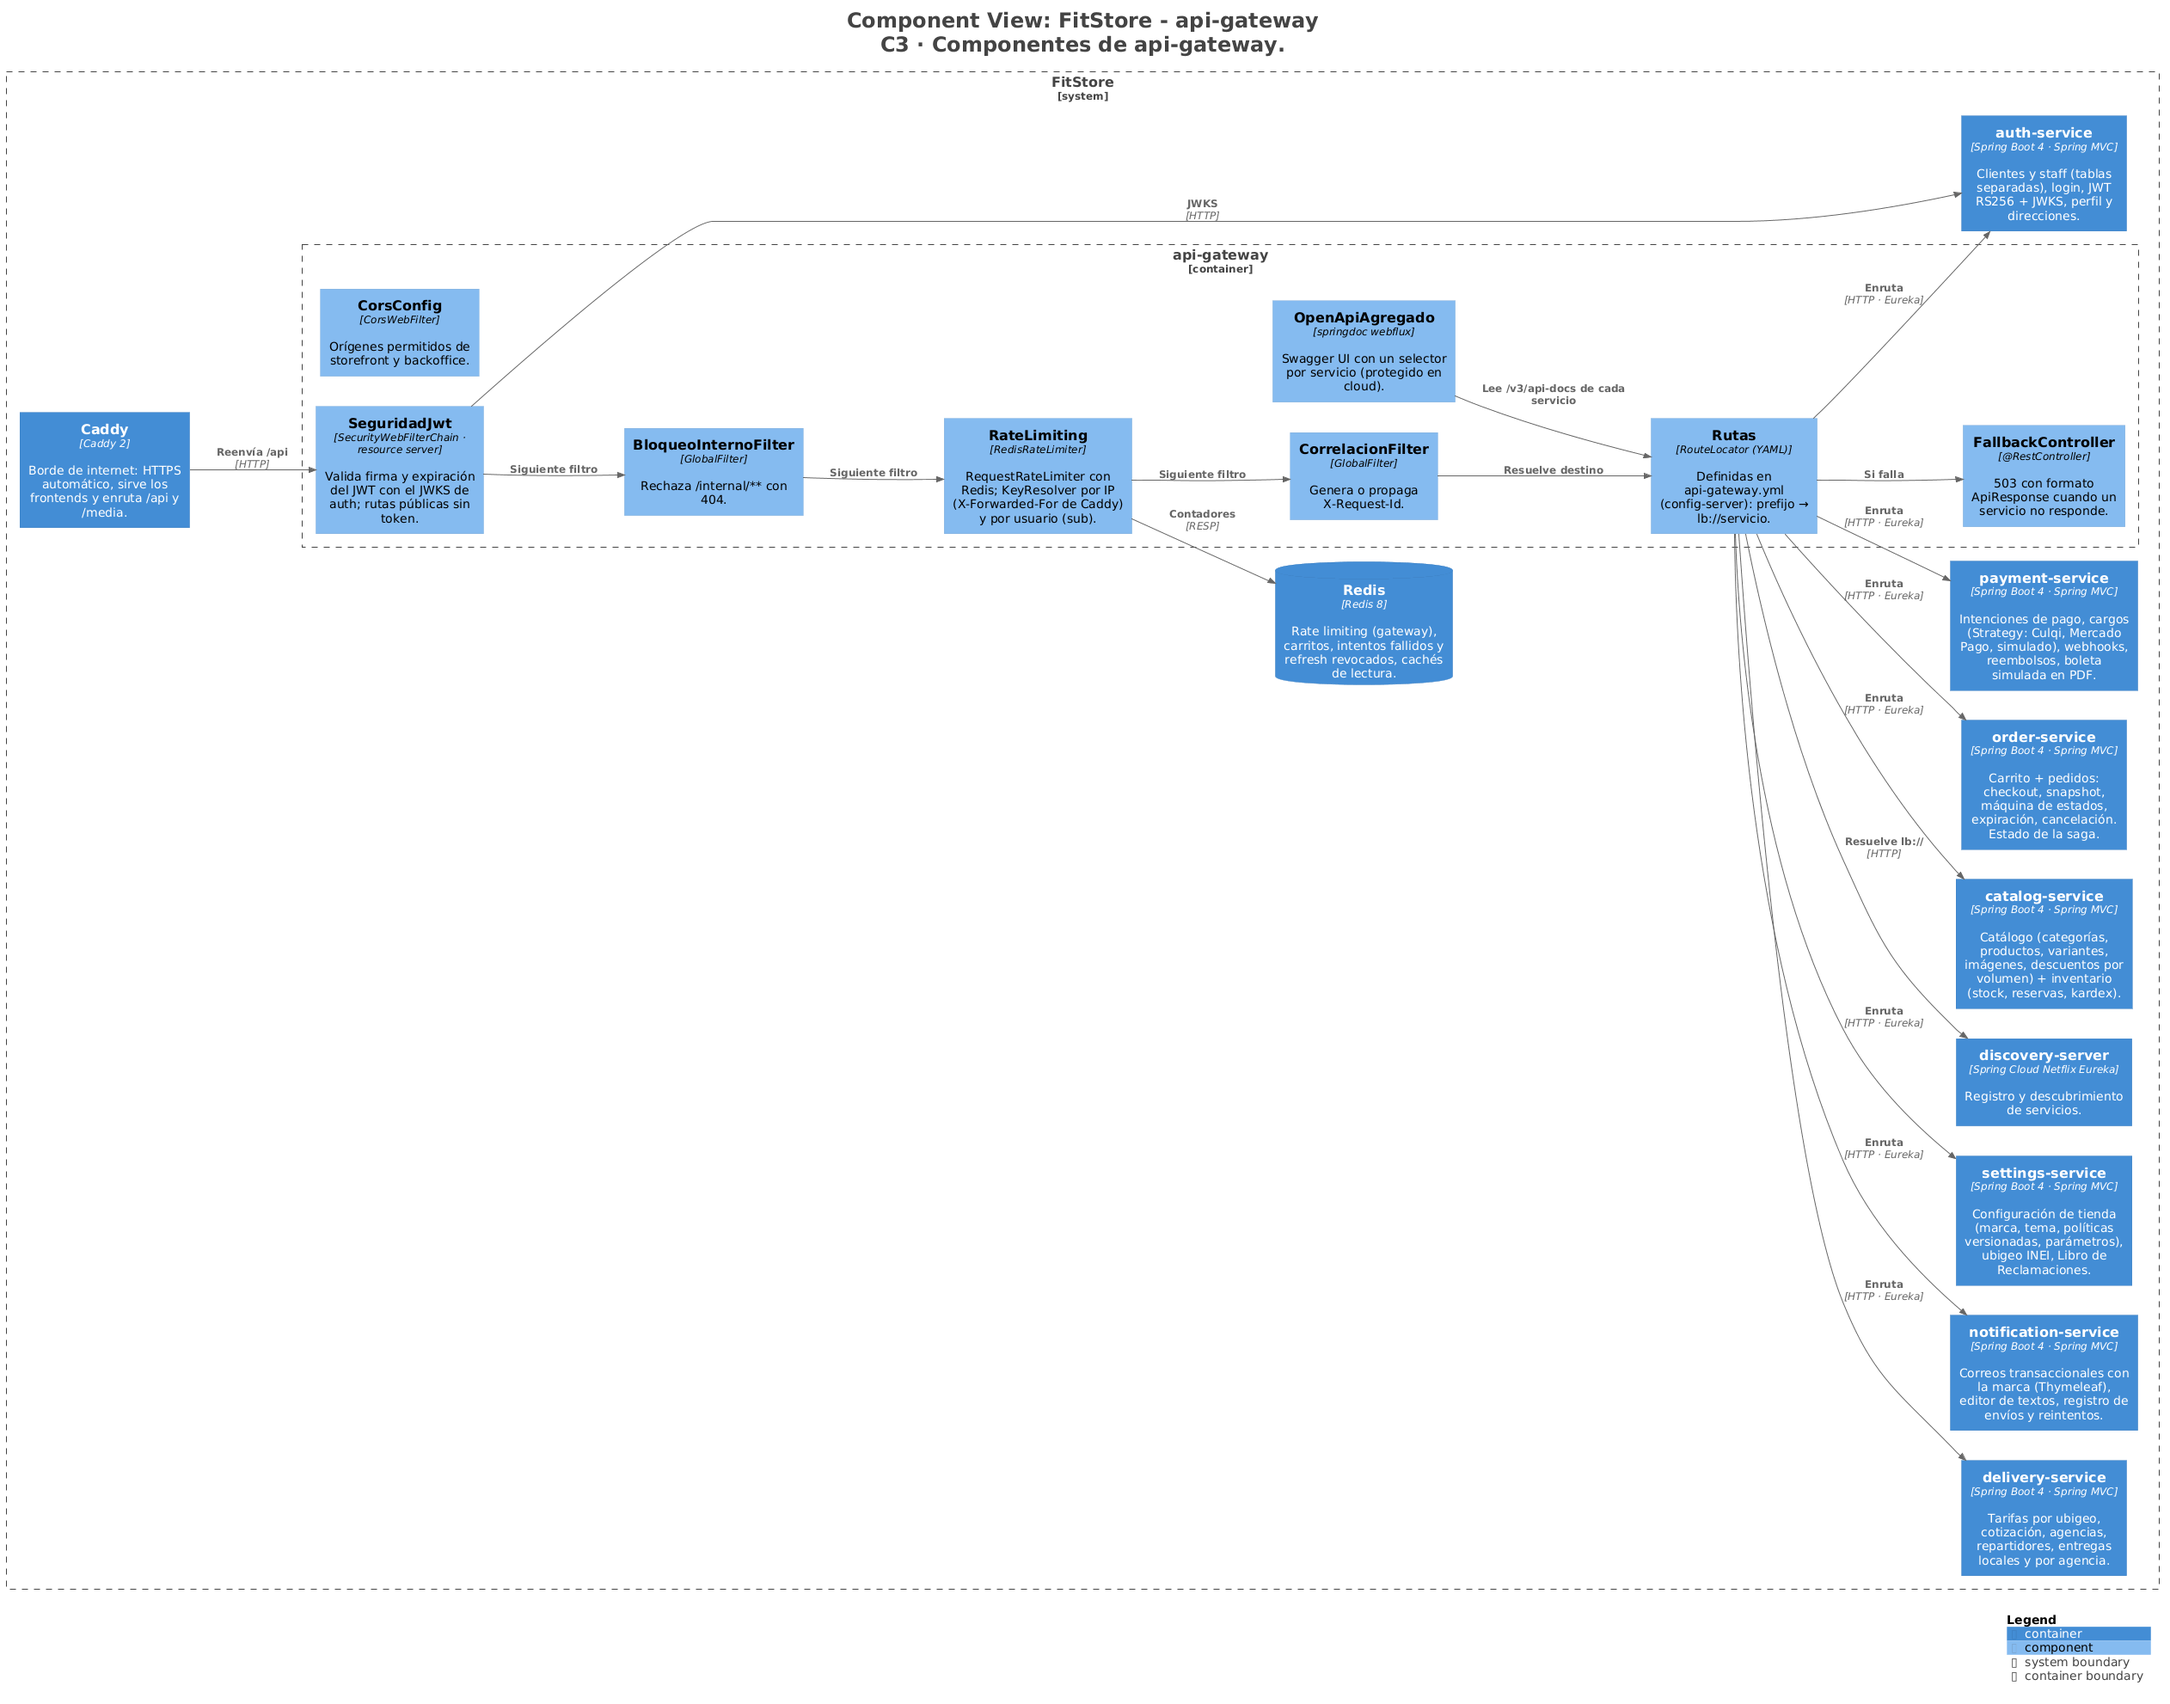
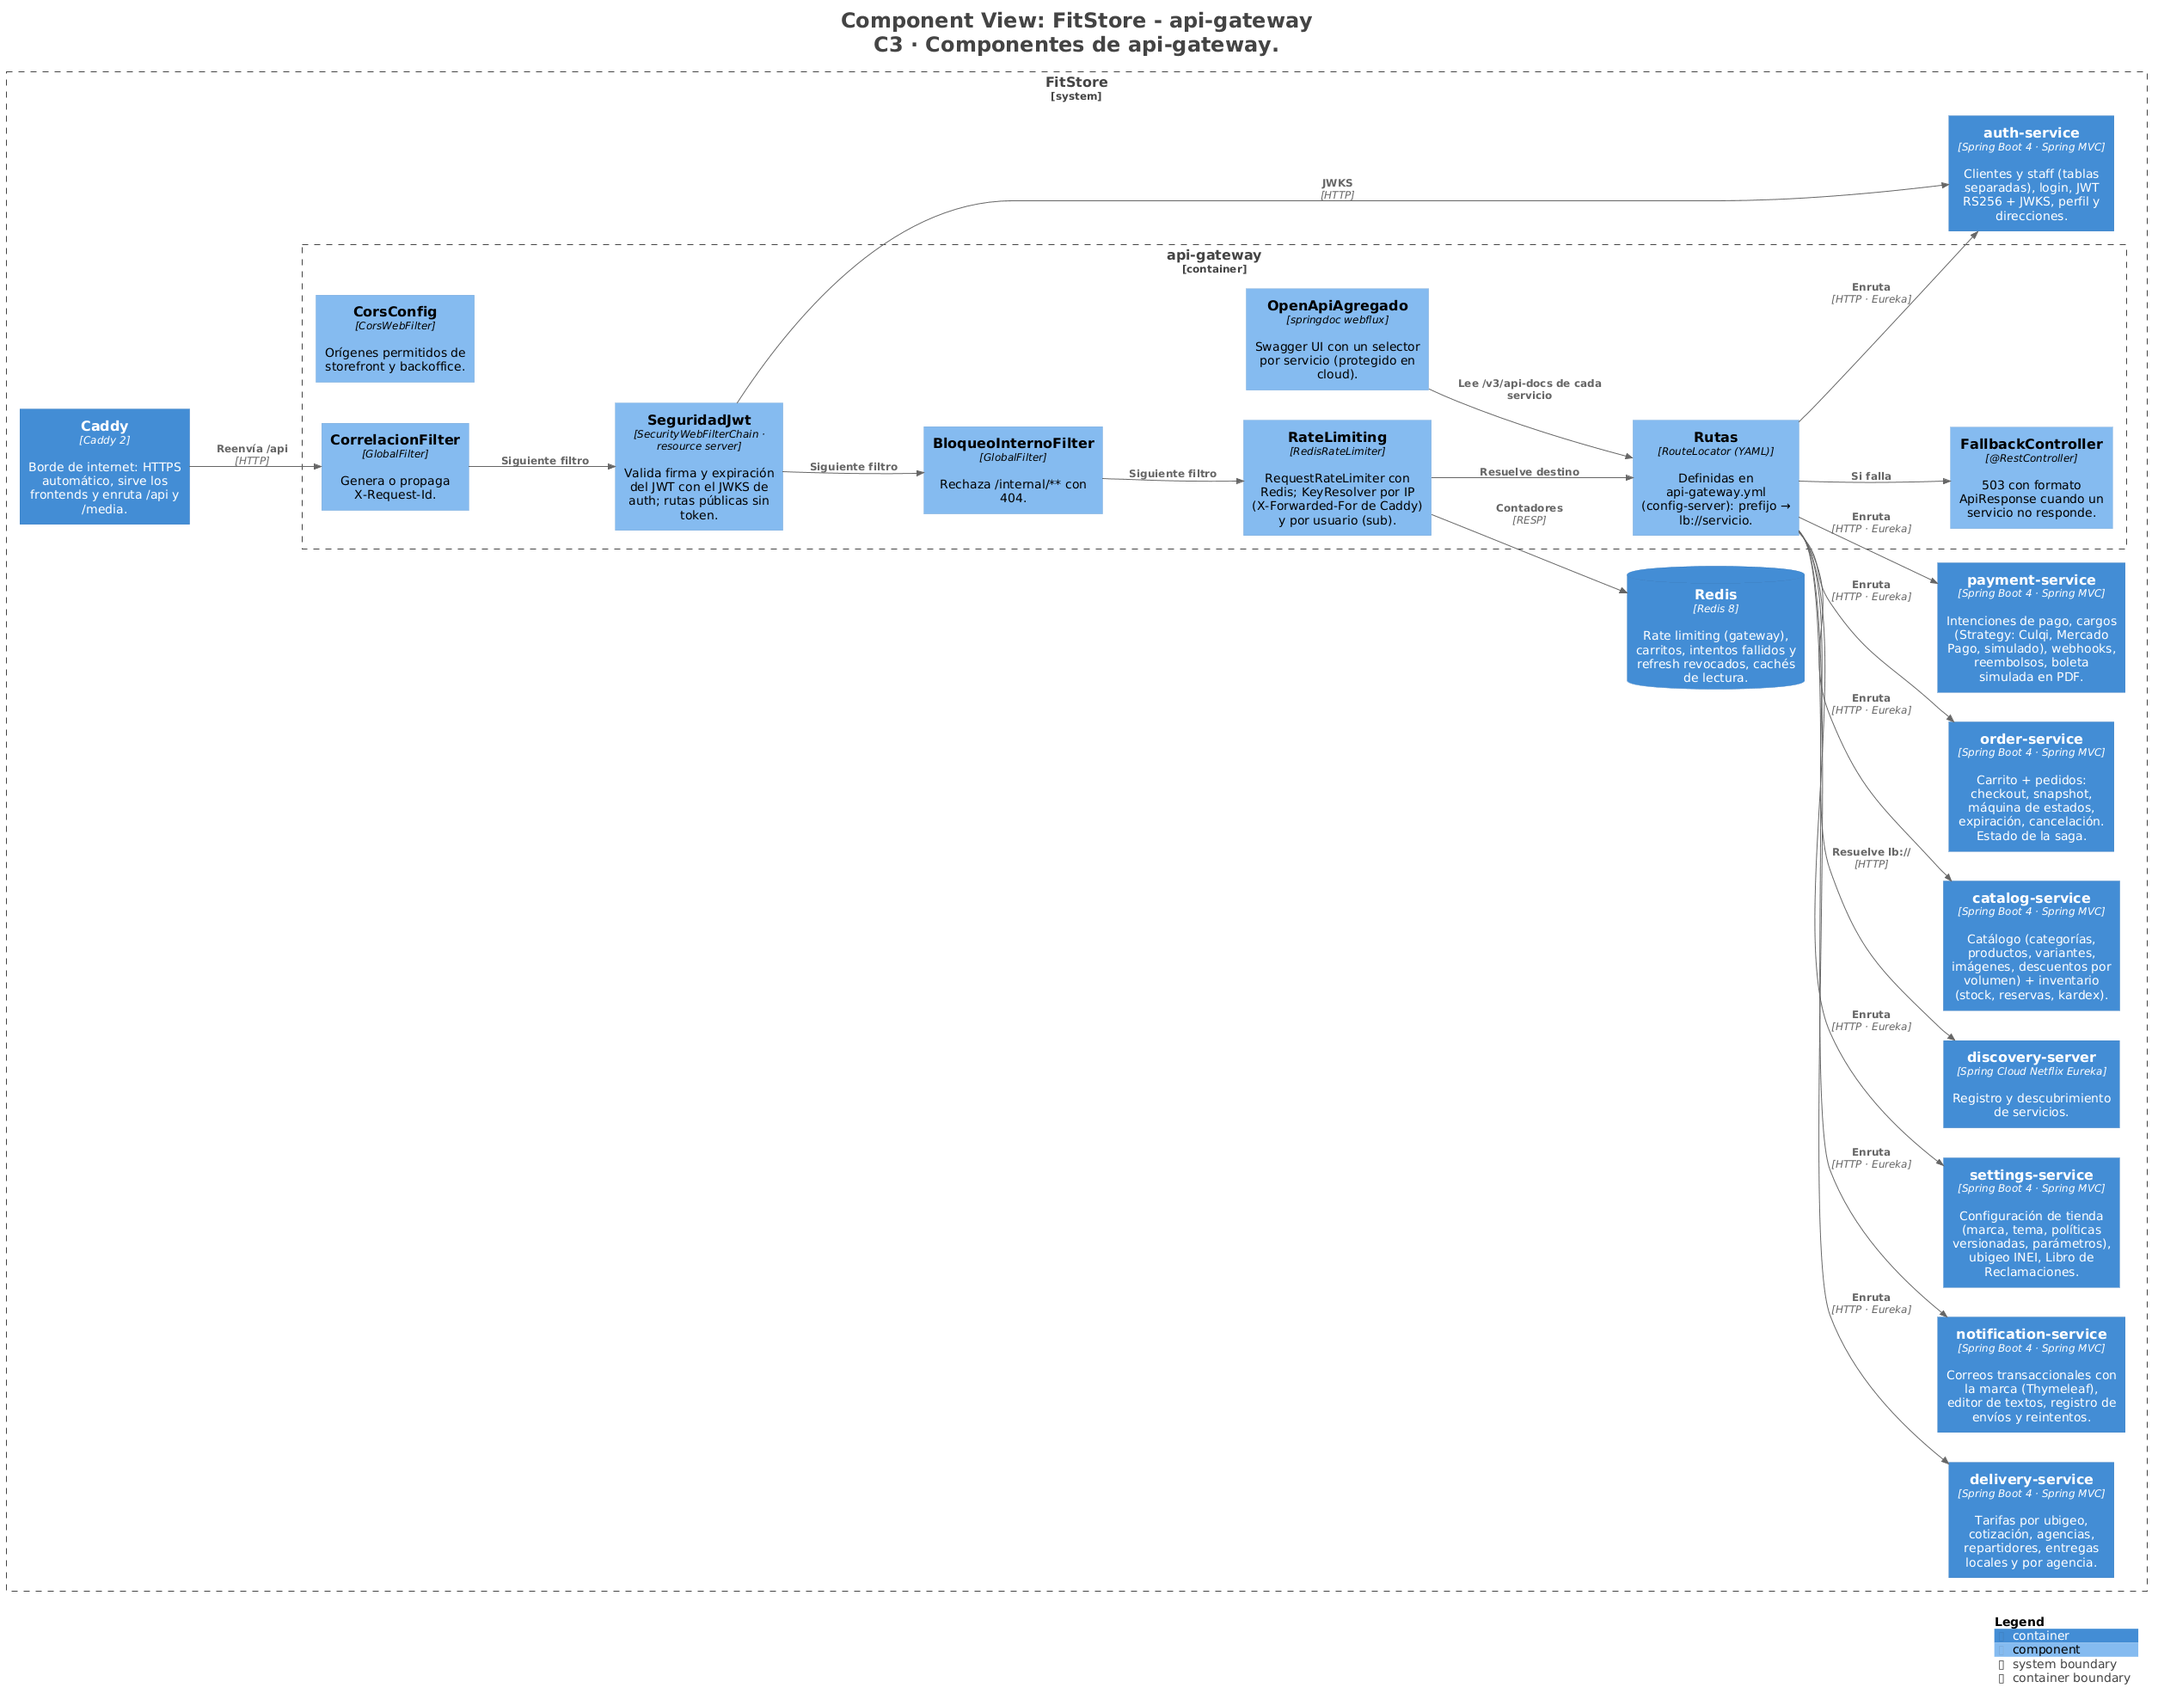
docs: validación de briefs contra la spec y orden de filtros del gateway
- estrategia v6: B2, el brief se valida criterio por criterio contra la
  sección 7 de la spec antes de lanzar un agente
- brief 0a: tabla de validación; 05 y 17 pasan a 0a.3, la traza de 13 a 0a.1
- micro de infraestructura v8 y C4 v6: CorrelacionFilter primero (K9,
  CA-0a-13), C3-gateway regenerado

diff --git a/docs/implementacion/briefs/SPEC-0a.md b/docs/implementacion/briefs/SPEC-0a.md
@@ -7,10 +7,33 @@ La SPEC-0a se construye en tres pasos (I1). Cada paso es un agente, una rama y u
 
 | Paso | Rama | Alcance (V4) | Criterios | Entra |
 |---|---|---|---|---|
-| **0a.1** Monorepo, común e infraestructura | `spec/0a-1-plataforma` | [`SPEC-0a.1.alcance`](SPEC-0a.1.alcance) | 01 (parcial), 04, 08–12, 13 (`X-Request-Id`), 14–17, 21 | En curso |
+| **0a.1** Monorepo, común e infraestructura | `spec/0a-1-plataforma` | [`SPEC-0a.1.alcance`](SPEC-0a.1.alcance) | 01 (parcial), 04, 08–13, 14–16, 21 · complementaria: 17 | En curso |
 | **CK1** Checkpoint de base | — | — | Revisión exhaustiva del lead ([estrategia 2.1](../estrategia-multiagente.md#21-checkpoints-de-base)) | 0a.1 en `dev` |
-| **0a.2** Esqueleto de un servicio (×7, 3 a la vez) | `spec/0a-2-<servicio>` | `SPEC-0a.2-<servicio>.alcance` | 05 y 06 de ese servicio, más su `ContratoOpenApiTest` (I8) | CK1 aprobado por el autor |
-| **0a.3** CI, humo y Postman | `spec/0a-3-ci` | `SPEC-0a.3.alcance` | 01, 02, 03, 07, 13 (traza en Jaeger), 17 (en el compose), 18, 19, 20, 22 | Los 7 esqueletos en `dev` |
+| **0a.2** Esqueleto de un servicio (×7, 3 a la vez) | `spec/0a-2-<servicio>` | `SPEC-0a.2-<servicio>.alcance` | 06 de ese servicio, más su `ContratoOpenApiTest` (I8) y lo que necesita 05 (V1 + entidades con `validate`) | CK1 aprobado por el autor |
+| **0a.3** CI, humo y Postman | `spec/0a-3-ci` | `SPEC-0a.3.alcance` | 01, 02, 03, 05, 07, 17, 18, 19, 20, 22 | Los 7 esqueletos en `dev` |
+
+### Validación del brief (estrategia B2)
+
+Copiada de la sección 7 de la SPEC-0a v6. Cada criterio tiene un solo dueño.
+
+| CA | Sección 7: tipo · dónde | Dueño | ¿Su archivo está en el alcance del dueño? |
+|---|---|---|---|
+| 01 | Build / CI · `./mvnw verify`, `ci.yml` | 0a.3 (0a.1 deja el build en verde) | ✅ `ci.yml` en 0a.3 |
+| 02, 03 | Humo · `infra/smoke.sh` | 0a.3 | ✅ |
+| 04 | Integración · `config-server` + un servicio con Testcontainers | 0a.1 | ✅ `backend/config-server/` |
+| 05 | Humo · `infra/smoke.sh` | 0a.3 (0a.2 construye V1 y entidades) | ✅ |
+| 06 | Datos · `src/test/.../repository/*Test.java` de cada servicio | 0a.2 (cada servicio) | ✅ `backend/<servicio>/` |
+| 07 | Humo · `infra/smoke.sh` | 0a.3 (0a.1 crea `init.sql`) | ✅ |
+| 08–13 | Integración · `api-gateway/src/test` | 0a.1 | ✅ `backend/api-gateway/` |
+| 14, 15, 16 | Integración · `fitstore-common/src/test` | 0a.1 | ✅ `backend/fitstore-common/` |
+| 17 | Humo · `infra/smoke.sh` | 0a.3 (0a.1: prueba complementaria) | ✅ |
+| 18 | CI · `.gitignore` + gitleaks en `ci.yml` | 0a.3 (0a.1 crea `.gitignore`) | ✅ |
+| 19 | Humo · `infra/smoke.sh` | 0a.3 | ✅ |
+| 20 | CI · `ci.yml` | 0a.3 | ✅ |
+| 21 | Build · `jacoco:check` en `./mvnw verify` | 0a.1 (POM padre) | ✅ `pom.xml` |
+| 22 | CI · `ci.yml`, `scripts/contrato.sh`; `ContratoOpenApiTest` en cada esqueleto | 0a.3 (0a.2: `ContratoOpenApiTest`) | ✅ |
+
+Errores encontrados y corregidos (2026-10-19): CA-0a-07 y 18 estaban en 0a.1 (son de 0a.3); CA-0a-05 estaba en 0a.2 y CA-0a-17 en 0a.1 (los dos son *smoke*, de 0a.3); la traza de CA-0a-13 estaba en 0a.3 (la sección 7 la pone en las pruebas del gateway, 0a.1).
 
 ---
 
@@ -43,8 +66,8 @@ En tu **primer mensaje**, antes de escribir código: confirma qué leíste y res
 | CA-0a-01 (parcial) | `./mvnw verify` compila los 11 módulos y pasa todo |
 | CA-0a-04 | `config-server/src/test`: un cliente con perfil `dev` toma su configuración; sin config-server, reintenta y no arranca con valores por defecto |
 | CA-0a-08 a CA-0a-12 | `api-gateway/src/test` con `WebTestClient` + WireMock (+ Redis en Testcontainers para 11) |
-| CA-0a-13 (`X-Request-Id`) | `api-gateway/src/test`: la respuesta trae `X-Request-Id` y se propaga al servicio (la traza en Jaeger la verifica 0a.3) |
-| CA-0a-17 | `api-gateway/src/test`: el selector de Swagger tiene los 7 servicios configurados (0a.3 lo confirma en el compose) |
+| CA-0a-13 | `api-gateway/src/test`: la respuesta trae `X-Request-Id`, se propaga al servicio y el gateway exporta la traza (span del gateway con el servicio destino) a un receptor OTLP de prueba; la sección 7 de la spec pone todo el 13 en las pruebas del gateway |
+| CA-0a-17 (complementaria) | `api-gateway/src/test`: el selector de Swagger tiene los 7 servicios configurados. El dueño del criterio es 0a.3 (*smoke*, sección 7) |
 | CA-0a-14, CA-0a-15 | `fitstore-common/src/test` con PostgreSQL y RabbitMQ en Testcontainers |
 | CA-0a-16 | `fitstore-common/src/test` con Garage en Testcontainers (contenedor genérico) |
 | CA-0a-21 | Demostrar que `jacoco:check` falla con un módulo bajo 80 % (por ejemplo, con un módulo de prueba temporal o una configuración de umbral en una prueba del build) y documentar cómo se verificó en el reporte |

diff --git a/docs/implementacion/estrategia-multiagente.md b/docs/implementacion/estrategia-multiagente.md
@@ -1,9 +1,10 @@
 # FitStore — Estrategia multiagente de implementación
 
-> Versión: **v5 (aprobado)** — 2026-10-19 · Estados: ✅ decidido · 🟡 propuesto · ❓ abierto
+> Versión: **v6 (aprobado)** — 2026-10-19 · Estados: ✅ decidido · 🟡 propuesto · ❓ abierto
 > Etapa: specs ✅ → contratos ✅ → diseño ✅ → **estrategia multiagente** → implementación.
 
 **Historial:**
+- v6 (2026-10-19): **validación del brief contra la spec** antes de lanzar cada agente (B2), tras detectar en 0a.1 criterios asignados al paso equivocado.
 - v5 (2026-10-19): **spec primero** en toda validación (V-c); **terminado = 100 % del alcance de la spec**, sin agregados ni adelantos (V0b, V11). La cobertura de 80 % es un piso de calidad, no la medida de terminado.
 - v4 (2026-10-19): **checkpoints de base** (sección 2.1): revisión exhaustiva del lead antes de arrancar agentes en paralelo (tras 0a.1 y tras 0a + 0b).
 - v3 (2026-10-19): cobertura mínima 80 % con el núcleo cubierto (V10); rojo por historia confirmado (F3); la ola 0 se parte en 0a.1 → 0a.2 (los 7 esqueletos, 3 a la vez) → 0a.3 → **estrategia aprobada**.
@@ -72,6 +73,16 @@ El lead arma un *brief* con esta plantilla y lo guarda en `docs/implementacion/b
 5. **Rama y worktree:** `spec/NN-nombre` desde `dev`.
 6. **Cuándo detenerse y preguntar** (sección 5).
 7. **Cómo reportar** (sección 4.3).
+
+**B2 ✅ Validación del brief antes de lanzar (spec primero).** El brief no se arma "de memoria" ni por inferencia: cada asignación se copia de la spec. Antes de lanzar a un agente, el lead completa en el brief la tabla **"Validación del brief"** con todos los criterios de la spec y comprueba:
+
+1. **Cada criterio** de la spec aparece **exactamente una vez** como dueño (un paso o un agente), sin huecos ni duplicados. Si otro paso agrega una prueba complementaria, se anota como tal, sin quitarle el criterio a su dueño.
+2. **Dónde se prueba** coincide literalmente con la fila de la **sección 7** de la spec (tipo y archivo). Si la sección 7 dice *smoke* o CI, el criterio es de quien crea ese *smoke* o ese CI.
+3. **El dueño puede probarlo:** el archivo de prueba que indica la sección 7 está dentro del alcance (`.alcance`) de ese paso.
+4. **El alcance** de cada paso está contenido en la **sección 8** de la spec, y la unión de los pasos la cubre completa.
+5. **"Incluye" y "No incluye"** de la sección 1 están repartidos sin huecos y sin adelantar trabajo de otras specs.
+
+El autor ve esa tabla al aprobar la ola. Si el agente encuentra después una asignación mal hecha, el lead corrige el brief por PR y registra el error en el tablero.
 
 Las reglas comunes a todos los agentes (convenciones, TDD, commits, carpetas congeladas) van en un `CLAUDE.md` en la raíz del repo, que Claude Code carga en cada agente; el brief solo agrega lo propio de la spec.
 

diff --git a/docs/analisis/micro/infraestructura.md b/docs/analisis/micro/infraestructura.md
@@ -1,10 +1,11 @@
 # FitStore — Análisis micro: infraestructura (`config-server`, `discovery-server`, `api-gateway`) y piezas comunes
 
-> Versión: **v7 (aprobado)** — 2026-10-19. Fuente: [`01-analisis-macro.md`](../01-analisis-macro.md) v16.
+> Versión: **v8 (aprobado)** — 2026-10-19. Fuente: [`01-analisis-macro.md`](../01-analisis-macro.md) v16.
 > Estados: ✅ decidido · propuesto · ❓ abierto · 🕓 diferido
 > Ficha corta: estos servicios no tienen dominio de negocio, así que la estructura difiere de la plantilla.
 
 **Historial:**
+- v8 (2026-10-19): por la implementación de 0a.1: `CorrelacionFilter` va primero en la cadena del gateway (10.1), para que `X-Request-Id` salga en todas las respuestas (K9, CA-0a-13); C3-gateway regenerado.
 - v7 (2026-10-19): ajustes de la etapa de contratos: formato de `ApiError` y de la página (K5, K6) y forma del sobre de eventos con `datos` (K12).
 - v6 (2026-10-19): revisión de coherencia: contenedor `duckdns` y Mailpit como respaldo de SES en `cloud` en la tabla de memoria y en los archivos de compose (SPEC-8).
 - v5 (2026-10-19): `AzureBlobFileStorage` diferido (en la nube se usa Garage en la VM, SPEC-8 I6); se quita la ruta `/api/v1/admin/clientes/*/pedidos` del gateway (los pedidos de un cliente usan `GET /admin/pedidos?clienteId=`, SPEC-4 O3); detectado al redactar la SPEC-8.
@@ -198,7 +199,7 @@ Stack y versiones: [`docs/arquitectura/stack-versiones.md`](../../arquitectura/s
 
 ![C3 api-gateway](../../arquitectura/img/C3-gateway.png)
 
-Cadena de una petición: **SeguridadJwt → BloqueoInternoFilter → RateLimiting → CorrelacionFilter → Rutas** (→ servicio vía Eureka, o `FallbackController` con `503`). `CorsConfig` y `OpenApiAgregado` completan el gateway. Config-server y Eureka no tienen componentes propios relevantes (son la aplicación Spring Cloud estándar con su configuración).
+Cadena de una petición: **CorrelacionFilter → SeguridadJwt → BloqueoInternoFilter → RateLimiting → Rutas** (la correlación va primero para que `X-Request-Id` salga en todas las respuestas, también en los `401`, `404` y `429` de los filtros siguientes; contracts K9, SPEC-0a CA-0a-13) (→ servicio vía Eureka, o `FallbackController` con `503`). `CorsConfig` y `OpenApiAgregado` completan el gateway. Config-server y Eureka no tienen componentes propios relevantes (son la aplicación Spring Cloud estándar con su configuración).
 
 ### 10.2 Repositorio: estructura del monorepo
 

diff --git a/docs/arquitectura/c4-sistema.md b/docs/arquitectura/c4-sistema.md
@@ -1,6 +1,6 @@
 # FitStore — Arquitectura C4 del sistema (C1, C2 y C3)
 
-> Versión: **v5 (aprobado)** — 2026-10-19. v5: eventos y componentes del reembolso postventa en order y payment (SPEC-5; imágenes C2-Eventos, C2-Pagos, C3-order y C3-payment regeneradas). v4: C3 de los 8 contenedores aprobados. v3: C1 y C2 aprobados. v2: el C2 general se aligera; nuevas vistas C2-Datos y C2-Pagos. Modelo fuente: [`workspace.dsl`](workspace.dsl) (Structurizr DSL).
+> Versión: **v6 (aprobado)** — 2026-10-19. v6: C3-gateway con `CorrelacionFilter` primero en la cadena (micro de infraestructura v8, CA-0a-13). v5: eventos y componentes del reembolso postventa en order y payment (SPEC-5; imágenes C2-Eventos, C2-Pagos, C3-order y C3-payment regeneradas). v4: C3 de los 8 contenedores aprobados. v3: C1 y C2 aprobados. v2: el C2 general se aligera; nuevas vistas C2-Datos y C2-Pagos. Modelo fuente: [`workspace.dsl`](workspace.dsl) (Structurizr DSL).
 > Las imágenes de `img/` se generan desde el modelo; **no se editan a mano**.
 
 ## Cómo ver y regenerar los diagramas
